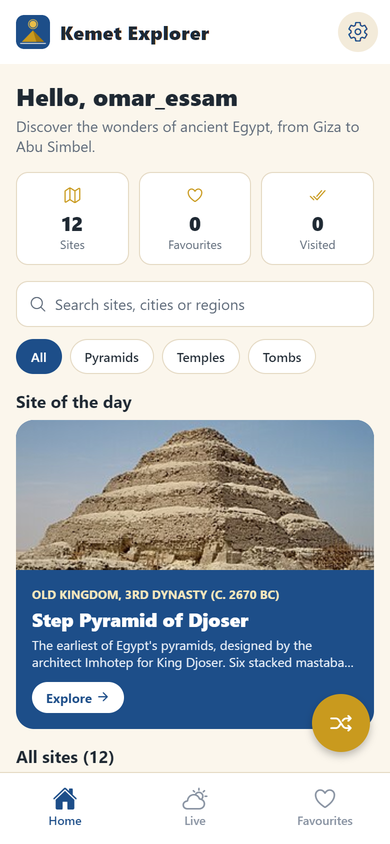
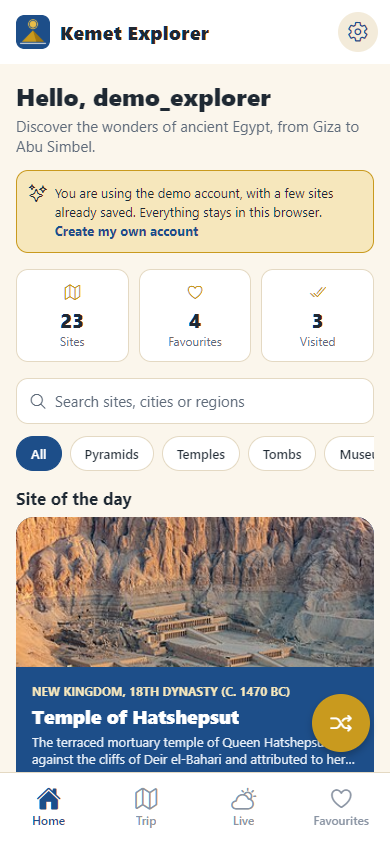
README for version 1.1: live demo, new features, how it is built, the trip planner algorithm, tests and CI, limitations; new screenshots

diff --git a/README.md b/README.md
@@ -1,50 +1,107 @@
 # Kemet Explorer
 
-A cross-platform mobile guide to twelve of Egypt's great ancient sites, built with React Native and Expo. Users create an account, browse and search the sites, open a detail page for each one, save favourites, track the sites they have visited, check live weather at every site and get a daily discovery reminder.
+[![CI and web deploy](https://github.com/engomaressam/kemet-explorer/actions/workflows/ci.yml/badge.svg)](https://github.com/engomaressam/kemet-explorer/actions/workflows/ci.yml)
 
-It is the capstone project for the IBM iOS and Android Mobile App Developer Professional Certificate. The same code runs on iOS, Android and the web.
+A cross-platform mobile guide to 23 of Egypt's ancient sites and museums, built with React Native and Expo. Users create an account (or open the demo), browse the sites as a list or as a timeline, open a detail page with live weather and a Wikipedia summary, save favourites, plan a route along the Nile, track the sites they have visited and get a daily discovery reminder. The same code runs on iOS, Android and the web.
 
-| Login | Home | Detail | Live weather | Settings |
+**Try it in the browser: [engomaressam.github.io/kemet-explorer](https://engomaressam.github.io/kemet-explorer/)**, then tap *Try the demo, no sign-up*. The demo account starts with a few saved sites and a planned trip; everything stays in your browser.
+
+It began as the capstone project for the IBM iOS and Android Mobile App Developer Professional Certificate. Version 1.1 goes beyond the course brief: a trip planner, a timeline view, a demo account, eleven more sites, unit tests, continuous integration and a deployed web version.
+
+| Home | Trip planner | Detail | Timeline | Live weather |
 |---|---|---|---|---|
-| ![Login](docs/screenshots/01-login.png) | ![Home](docs/screenshots/03-home.png) | ![Detail](docs/screenshots/04-detail.png) | ![Live weather](docs/screenshots/06-live-weather.png) | ![Settings menu](docs/screenshots/07-settings-menu.png) |
+| ![Home](docs/screenshots/03-home.png) | ![Trip planner](docs/screenshots/10-trip-planner.png) | ![Detail](docs/screenshots/04-detail.png) | ![Timeline](docs/screenshots/11-timeline.png) | ![Live weather](docs/screenshots/06-live-weather.png) |
 
 ## Features
 
 | Area | What it does | Code |
 |---|---|---|
-| Registration | Username, email and password with validation; duplicate accounts refused; passwords stored as salted SHA-256 hashes | [src/app/(auth)/signup.js](src/app/%28auth%29/signup.js), [src/context/AuthContext.js](src/context/AuthContext.js), [src/lib/validation.js](src/lib/validation.js) |
-| Login | Email and password, clear error messages, session kept until logout | [src/app/(auth)/login.js](src/app/%28auth%29/login.js) |
-| Home | Logo header, greeting, progress cards, search, category chips, site of the day, site list with navigation icons, "surprise me" button | [src/app/(tabs)/home.js](src/app/%28tabs%29/home.js), [src/components/SiteCard.js](src/components/SiteCard.js) |
-| Detail | Photo, facts, era, favourite, visited and share actions, live weather, highlights, Wikipedia summary, related sites | [src/app/site/[id].js](src/app/site/%5Bid%5D.js) |
-| Local storage | Accounts, session, favourites, visited sites, settings, notification history, activity log and API caches in AsyncStorage (localStorage on the web) | [src/lib/storage.js](src/lib/storage.js), [src/app/settings/storage.js](src/app/settings/storage.js) |
-| External APIs | Open-Meteo current weather and daily forecast for all sites in one request; Wikipedia REST summaries and photos; loading, error and cached states | [src/lib/api.js](src/lib/api.js), [src/app/(tabs)/live.js](src/app/%28tabs%29/live.js) |
-| Settings menu | Gear icon on every main screen; grouped menu with a personalised header and logout | [src/app/settings/index.js](src/app/settings/index.js), [src/components/ui.js](src/components/ui.js) |
-| Settings screen | Dark mode, text size, temperature unit, default category, sort order, photo loading, reset; profile and password changes | [src/app/settings/preferences.js](src/app/settings/preferences.js), [src/app/settings/account.js](src/app/settings/account.js), [src/context/SettingsContext.js](src/context/SettingsContext.js) |
-| Notifications | Permission handling, master switch, daily reminder at a chosen time, heat alerts for favourite sites, test notification, history | [src/lib/notifications.js](src/lib/notifications.js), [src/app/settings/notifications.js](src/app/settings/notifications.js), [src/context/NotificationContext.js](src/context/NotificationContext.js) |
+| Registration and login | Username, email and password with validation and clear messages; duplicate accounts refused; passwords stored as salted SHA-256 hashes; session kept until logout | [signup.js](src/app/%28auth%29/signup.js), [login.js](src/app/%28auth%29/login.js), [AuthContext.js](src/context/AuthContext.js), [validation.js](src/lib/validation.js) |
+| Demo account | One tap from the login screen opens a demo account with saved favourites, visits and a trip, so visitors can look around without signing up | [AuthContext.js](src/context/AuthContext.js) |
+| Home | Greeting, progress cards, search, category chips (pyramids, temples, tombs, museums), site of the day, "surprise me" button; list or timeline view grouped by historical period | [home.js](src/app/%28tabs%29/home.js), [SiteCard.js](src/components/SiteCard.js), [sites.js](src/data/sites.js) |
+| Trip planner | Orders the chosen sites into a route along the Nile, with the distance and a rough travel time for each leg, suggested days, live weather at each stop and the whole route in Google Maps | [trip.js (screen)](src/app/%28tabs%29/trip.js), [trip.js (logic)](src/lib/trip.js) |
+| Detail | Photo, facts, era, favourite, visited, add-to-trip and share actions, directions in Google Maps, live weather, highlights, Wikipedia summary, related sites | [src/app/site/[id].js](src/app/site/%5Bid%5D.js) |
+| External APIs | Open-Meteo current weather and daily forecast for every site in one request; Wikipedia REST summaries and photos; loading, error and cached states | [api.js](src/lib/api.js), [live.js](src/app/%28tabs%29/live.js), [weather.js](src/lib/weather.js) |
+| Local storage | Accounts, session, favourites, visited sites, trip, settings, notification history, activity log and API caches in AsyncStorage (localStorage on the web) | [storage.js](src/lib/storage.js), [settings/storage.js](src/app/settings/storage.js) |
+| Settings | Gear icon on every main screen; dark mode, text size, temperature unit, default category, sort order, photo loading; profile and password changes | [settings/index.js](src/app/settings/index.js), [preferences.js](src/app/settings/preferences.js), [account.js](src/app/settings/account.js) |
+| Notifications | Permission handling, daily reminder at a chosen time, heat alerts for favourite sites, test notification, history | [notifications.js](src/lib/notifications.js), [settings/notifications.js](src/app/settings/notifications.js) |
+| Web version | Deployed to GitHub Pages by CI; deep links such as `/site/karnak` work; installable as a web app; link previews for sharing | [ci.yml](.github/workflows/ci.yml), [public/](public/) |
 
-The user stories behind these features are in [KemetExplorer_user_stories.md](KemetExplorer_user_stories.md), and the wireframes are in [design/](design/).
+The user stories behind the first version are in [KemetExplorer_user_stories.md](KemetExplorer_user_stories.md), and the wireframes are in [design/](design/).
+
+## How it is built
+
+```mermaid
+flowchart LR
+  subgraph Screens["Screens (Expo Router)"]
+    A["(auth): login, signup"]
+    T["(tabs): home, trip, live, favourites"]
+    D["site/[id]"]
+    S["settings/*"]
+  end
+  C["Contexts: auth, settings, notifications"]
+  L["lib: storage, api, trip, weather, validation, notifications"]
+  Data["data/sites.js"]
+  Screens --> C
+  Screens --> L
+  C --> L
+  L --> Data
+  L --> Store[("AsyncStorage / localStorage")]
+  L --> OM["Open-Meteo API"]
+  L --> WP["Wikipedia REST API"]
+```
+
+- **Navigation:** Expo Router turns each file in `src/app` into a route: a root stack, an auth group and a bottom-tab group. Signed-out users are redirected to the login screen.
+- **State:** three React contexts hold the signed-in user, their settings (theme, units, text size) and notifications. Screens read saved data from `src/lib/storage.js` when they gain focus, so every tab stays in step.
+- **Data:** the site catalogue is local (facts, coordinates, era); live data comes from Open-Meteo and Wikipedia and is cached for 15 minutes and 7 days.
+
+### The trip planner
+
+[`src/lib/trip.js`](src/lib/trip.js) has no React Native imports, so it is unit-tested in Node:
+
+1. **Distances** are great-circle distances (haversine formula) between the sites' coordinates.
+2. **Route:** two first drafts, nearest neighbour from the northernmost stop and plain north-to-south order, are each improved with **2-opt** (reverse any segment whose reversal shortens the route, until none does), and the shorter result wins. Starting from two drafts avoids the poor local optimum that 2-opt can reach from a greedy start; a test checks the result is never longer than the north-to-south order.
+3. **Days:** up to three stops a day, and a new day after any leg of 150 km or more.
+4. **Travel time** is a rough road estimate (straight-line distance stretched by a third, at 70 km/h); long legs suggest the train, a Nile cruise or a flight.
 
 ## Tech stack
 
-- Expo SDK 58, React Native 0.88, React 19
-- Expo Router (file-based navigation: a root stack, an auth group and a bottom-tab group)
+- Expo SDK 58, React Native 0.88, React 19, react-native-web
+- Expo Router (file-based navigation)
 - @react-native-async-storage/async-storage for persistence
 - expo-notifications for scheduled local notifications on iOS and Android; the browser Notification API on the web
 - expo-crypto for password hashing
 - @expo/vector-icons (Ionicons)
+- Node's built-in test runner for unit tests; GitHub Actions and GitHub Pages for CI and the web version
 
 ## Run it
 
-You need Node.js 20 or later.
+You need Node.js 22.13 or later (see `.nvmrc`).
 
 ```bash
 git clone https://github.com/engomaressam/kemet-explorer.git
 cd kemet-explorer
-npm install
+npm ci
 npx expo start
 ```
 
 Then press `w` for the web version, `a` for an Android emulator or `i` for the iOS simulator, or scan the QR code with Expo Go on a phone. Scheduled notifications need a phone or a development build; on the web they are delivered while the app is open, after the browser asks for permission.
+
+| Command | What it does |
+|---|---|
+| `npm test` | Runs the unit tests |
+| `npm run build:web` | Builds the web version into `dist/` (served from `/kemet-explorer`, as on GitHub Pages) |
+
+## Tests and CI
+
+22 unit tests ([tests/](tests/)) use Node's built-in `node:test`, with no extra dependencies:
+
+- **validation:** email, username, password and the whole sign-up form;
+- **weather:** weather-code labels, Celsius and Fahrenheit, visiting tips;
+- **trip planner:** haversine distances, routes that visit every stop once, 2-opt never worse than north-to-south order, day splitting, leg labels, the Google Maps link;
+- **catalogue:** required fields, unique ids, categories, coordinates inside Egypt, photo URLs, period grouping.
+
+[GitHub Actions](.github/workflows/ci.yml) runs the tests and builds the web version on every push and pull request; pushes to `main` also deploy the build to GitHub Pages.
 
 ## Project structure
 
@@ -54,17 +111,21 @@ src/
     _layout.js          providers and the root stack
     index.js            redirects to /home or /login
     (auth)/             login.js, signup.js
-    (tabs)/             home.js, live.js (weather API), favorites.js
+    (tabs)/             home.js, trip.js, live.js (weather API), favorites.js
     site/[id].js        detail screen
     settings/           index.js (menu), preferences.js, account.js,
                         notifications.js, storage.js, about.js
   components/           shared UI, site card, notification banner
   constants/theme.js    light and dark palettes, spacing, font scale
   context/              auth, settings and notification providers
-  data/sites.js         the twelve sites
-  lib/                  storage, validation, API and notification helpers
+  data/sites.js         the 23 sites and the historical periods
+  lib/                  storage, validation, API, weather, trip planner
+                        and notification helpers
+tests/                  unit tests (node:test)
+public/                 web page template, manifest, icons, link preview image
 design/                 wireframe SVG frames (import into Figma) and boards
 docs/screenshots/       screenshots used in this README
+.github/workflows/      CI and GitHub Pages deployment
 ```
 
 ## Stored data
@@ -75,6 +136,7 @@ docs/screenshots/       screenshots used in this README
 | `kemet:session` | The signed-in user and login time |
 | `kemet:favorites:<userId>` | Favourite site ids |
 | `kemet:visited:<userId>` | Visited site ids |
+| `kemet:trip:<userId>` | Site ids chosen for the trip planner |
 | `kemet:settings:<userId>` | Theme, text size, units, home-screen and notification preferences |
 | `kemet:notifications:<userId>` | Recent notifications |
 | `kemet:activity:<userId>` | Activity log (sign-up, logins, views, favourites, settings changes) |
@@ -82,10 +144,16 @@ docs/screenshots/       screenshots used in this README
 
 Everything stays on the device. Settings > Privacy & stored data lists the keys and can clear the caches.
 
+## Limitations
+
+- There is no server: accounts exist only on the device or browser where they were made. The salted hashes keep passwords out of plain sight in storage, but a production app would authenticate against a backend.
+- Trip distances are straight lines and travel times are rough estimates; opening hours and transport are not covered.
+- Scheduled notifications need a phone or a development build.
+
 ## Data sources
 
 - Weather: [Open-Meteo](https://open-meteo.com/) (free, no API key, CC BY 4.0)
-- Summaries and photos: [Wikipedia REST API](https://en.wikipedia.org/api/rest_v1/) (CC BY-SA)
+- Summaries, photos and coordinates: [Wikipedia REST API](https://en.wikipedia.org/api/rest_v1/) and Wikimedia Commons (CC BY-SA)
 
 ## Licence
 
